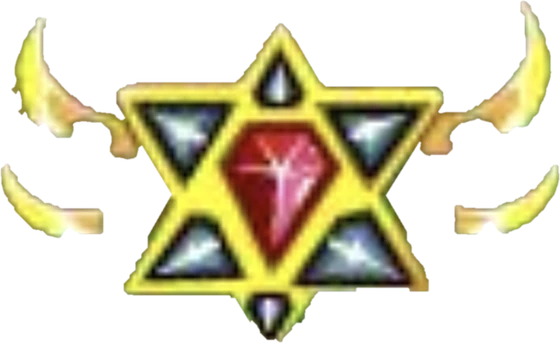
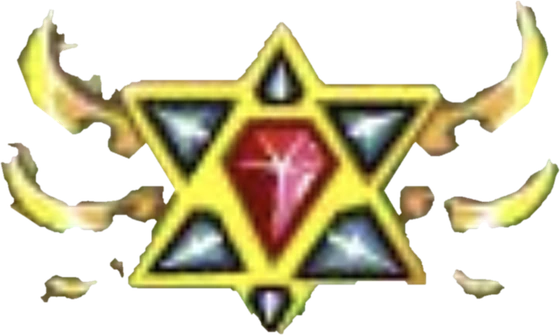
精灵悄悄话补齐所有精灵；冠军奖杯重新抠图（6 片刀刃）
Claude-Session: https://claude.ai/code/session_01JDiALkpbsdjX6YMkLW4X8m

diff --git a/js/data/chatter.js b/js/data/chatter.js
@@ -10,44 +10,70 @@ var CHATTER_GEN = {
   home: ['这里好安静。', '今天也辛苦啦。', '茶好香。', '什么时候出去冒险？', '我在巡逻，别打扰我。', '（打了个哈欠）', '训练师，摸摸我嘛。', '这间休息舱比野外舒服多了。']
 };
 var CHATTER_MIA = ['……紫……紫色的……', '呜噜噜……', '头好晕……', '（翻译器：信号太杂，翻译不出来）', '……好吵……别过来……', '咕……嘶……', '（翻译器：……检测到无法识别的语言）', '……想……回家……'];
+// 2026-11-02：给所有精灵补齐专属台词（原来合理的保留），按各自的设定写
 var CHATTER = {
-  leaf: { all: ['想晒太阳。', '省实验的生态园，不知道还好不好。', '我以前只是一颗普通的种子来着。', '光合作用中，请勿打扰。'], spa: ['热水浇一浇，好像要发芽了。', '泡久了会不会长出根来……'], home: ['窗边那盆花是我的亲戚吗？'],
-    stage: { 0: ['我会长大的！', '咕咚——（滚了一圈）'], 2: ['果子熟了，才有力气保护大家。'] } },
-  squid: { all: ['这一圈都是我的领地。', '让我先画个圈。', '海里的事，我说了算。', '墨汁？我随身带着。'], wild: ['你踩到我画的圈了！'], spa: ['淡水……也还行吧。', '泡温泉也要先画个圈占位置。'], home: ['这个角落我已经用墨汁标记过了。'],
-    stage: { 0: ['我以前住在东海，后来被捞到了省实验……', '生物老师们对我做了什么来着？'], 1: ['乌贼们都听我的！'] } },
-  moon: { all: ['我没睡着，我睁着眼呢。', '今天是上弦月还是下弦月？', '月亮缺了也会再圆的。'], spa: ['水面上有月亮的倒影……是我吗？'], home: ['（眯着眼）……我真的醒着。'] },
-  wind: { all: ['叶片上的印记，是祖先留给我们的。', '风往哪边吹，我们就往哪边跑。', '草甸才是最好的地方。'], wild: ['你是天上掉下来的那些人类吗？', '最近林子里怪怪的……'], spa: ['原来不只是草甸，热水也很舒服。'], home: ['想念芙罗拉的风了。'],
-    stage: { 0: ['跑起来！跑起来！'], 2: ['六条尾巴梳起来很费劲的。'] } },
-  mush: { all: ['看得清清楚楚。'], wild: ['离我远一点，我会喷孢子的。'], home: ['找个阴凉角落待着最好。'],
-    stage: { 0: ['我的眼镜片是丛林里的硅蘑菇做的。', '（推了推眼镜）'], 1: ['（推了推眼镜）', '两条菌丝扎进土里，吃饱饱。', '这块土好有营养。'], 2: ['眼镜？早就不需要了，菌丝能织成透镜。', '别看藤鞭短，要伸多长有多长。', '（藤鞭悄悄伸长了一截）'] },
+  leaf: { all: ['想晒太阳。', '省实验的生态园，不知道还好不好。', '我以前只是一颗普通的种子来着。', '光合作用中，请勿打扰。', '叶子摊开，太阳就是我的。', '阴天好没精神……'], spa: ['热水浇一浇，好像要发芽了。', '泡久了会不会长出根来？', '温泉里也有阳光的味道。'], home: ['把我放窗边好不好？', '有空帮我浇点水嘛。'], wild: ['你身上有省实验的味道！'],
+    stage: { 0: ['我会长大的！', '咕咚——（滚了一圈）', '4 号生态园的土最好了。'], 1: ['叶子又长出来一片！', '晴天的时候，我会把叶子平铺在头顶。'], 2: ['果子熟了，才有力气保护大家。', '晒满一次，能撑九十天哦。', '结了果却没开过花……我也不知道为什么。'] } },
+  squid: { all: ['这一圈都是我的领地。', '让我先画个圈。', '海里的事，我说了算。', '墨汁？我随身带着。', '黄海的水比东海凉一点。'], wild: ['你踩到我画的圈了！', '出了这个圈，就不归我管了。'], spa: ['淡水……也还行吧。', '泡温泉也要先画个圈占位置。', '谁把墨汁滴进池子了？……哦，是我。'], home: ['这间屋子，我画个圈就算我的了。', '训练师，你的位置也在圈里哦。'],
+    stage: { 0: ['我以前住在东海，后来被捞到了省实验……', '生物老师们对我做了什么来着？', '我才不是鱿鱼丝！'], 1: ['乌贼们都听我的！', '大王出巡，闲人回避。'], 2: ['墨圈越画越大，领地也越来越大。', '领主的圈，谁也不许踩。'] } },
+  moon: { all: ['我没睡着，我睁着眼呢。', '今天是上弦月还是下弦月？', '月亮缺了也会再圆的。', '阴晴圆缺，都是我。', '夜里的我，比白天更亮。'], wild: ['你挡住我的月光了。'], spa: ['水面上有月亮的倒影……是我吗？', '泡在水里，像月亮掉进了湖。'], home: ['（眯着眼）……我真的醒着。', '把灯关掉，我来当灯。'],
+    stage: { 0: ['（睁着眼睛看着你）', '大家都以为我在睡觉……'], 1: ['暗面也是月亮的一部分。', '光和影，我都要。', '月升叠满的时候，可别眨眼。'] } },
+  wind: { all: ['叶片上的印记，是祖先留给我们的。', '风往哪边吹，我们就往哪边跑。', '草甸才是最好的地方。', '听，风在说话。'], wild: ['你是天上掉下来的那些人类吗？', '最近林子里怪怪的……', '紫色的雾又飘过来了吗？'], spa: ['原来热水是这种感觉。', '叶子泡软了，飞不起来了……'], home: ['屋里没有风，有点闷。', '开个窗吧，让风进来。'],
+    stage: { 0: ['跑起来！跑起来！', '卡罗卡罗！'], 1: ['铭文在发光……先祖在看着我。', '风和草，都听我的。'], 2: ['六条尾巴梳起来很费劲的。', '一挥尾巴，满天叶片都会飞起来。'] } },
+  mush: { all: ['看得清清楚楚。', '丛林里的硅蘑菇，最适合做镜片。', '孢子不是故意撒的，打个喷嚏而已。'], wild: ['离我远一点，我会喷孢子的。', '这片腐叶土是我的。'], home: ['找个阴凉角落待着最好。', '屋里太亮了，能拉上窗帘吗？'],
+    stage: { 0: ['我的眼镜片是丛林里的硅蘑菇做的。', '（推了推眼镜）'], 1: ['（推了推眼镜）', '两条菌丝扎进土里，吃饱饱。', '这块土好有营养。'], 2: ['眼镜？早就不需要了，菌丝能织成透镜。', '藤鞭？其实是菌丝装的。', '菌丝一伸，够得着很远的地方。'] },
     spa_0: ['眼镜起雾了……什么都看不见了。'], spa_1: ['眼镜起雾了……什么都看不见了。', '菌丝泡软了。'], spa_2: ['菌丝织的透镜不会起雾，嘿嘿。'] },
-  kaleo: { all: ['我一个人待着就好。', '丛林深处才是我们的家。', '……（警惕地看着四周）'], wild: ['别把我和那些被训练过的家伙混为一谈。'], spa: ['……热水，还不坏。'], home: ['这里没有人会拿瘴气喂我吧？'] },
-  leafcat: { all: ['好困……让我睡一会儿……', '寿司？哪里有寿司？', '我很强哦。'], spa: ['泡完温泉睡一觉，完美。', '这水好干净，不用我净化了。'], home: ['（蜷成一团）呼噜……'],
-    stage: { 1: ['魔杖借你看看，不许摸。', '要是有瘴气，交给我吧。'] } },
-  gorgon: { all: ['我是一团水，也是精灵。', '流到哪里算哪里。'], spa: ['热水和我，分不清谁是谁了。', '别把我当洗澡水舀走啊！'], home: ['给我换个大点的水盆吧。'],
-    stage: { 0: ['我真的是精灵，不是一滩水！'], 1: ['我其实是一条蛇哦。'], 2: ['涓流灌溉生命……也能卷走生命。'] } },
-  pede: { all: ['我游得最快！', '追得上我吗？', '一刻也停不下来。'], spa: ['温泉里不让游泳吗？'], home: ['想冲一圈。'] },
-  siren: { all: ['啦——啦——', '要听我唱歌吗？', '歌声能传得很远很远。'], wild: ['迷路的人，听着歌声回来吧。'], spa: ['这里的回音真好听，啦～'], home: ['今天想唱一首新歌。'] },
-  tagore: { all: ['咱东北那旮沓，冬天老冷了。', '来，比划比划！', '指甲是弧形的，不挠人。'], spa: ['这温泉跟东北澡堂子比还差点意思。', '搓澡巾有没有？'], home: ['一会儿去体能馆练练。'],
-    stage: { 1: ['沈阳大街上，没人打得过我。'], 2: ['武学之道，在于屹立不倒。'] } },
-  hauris: { all: ['宇宙好大啊……', '我在漂，我一直在漂。', '好像……悟到了点什么。'], spa: ['在水里漂和在宇宙里漂，感觉差不多。'] },
-  faraday: { all: ['滋滋——', '不要碰我，会触电的。', '电量满格！'], spa: ['我泡进水里真的没问题吗？？'], home: ['帮你充个电？'] },
-  leigong: { all: ['有锰吗？想吃锰。', '我的内核是纯锰的。'], spa: ['热水泡久了会不会氧化……'], home: ['这个茶杯是锰做的吗？'],
-    stage: { 1: ['我们三个是一体的。'], 2: ['我才是本体，那些小锰怪都是分身。'] } },
-  frost: { all: ['好热……有冰吗？', '呼——（吹出一口冷气）'], spa: ['温泉？我会化掉的吧！', '……其实还挺舒服的，别告诉别人。'], home: ['把空调开低一点。'] },
-  wild: { all: ['……', '很久很久以前……', '我记得这颗星球最早的样子。'] },
-  hephaestus: { all: ['好暖和，想打个盹。', '再热一点就好了。'], spa: ['这才是温泉该有的温度！再热点！'], home: ['炉子在哪？'] },
-  turkey: { all: ['米饭！有米饭吗？', '我背的这筐饭，谁也不许碰。', '咕咕——饭——'], spa: ['泡完温泉，来一碗热乎乎的饭吧。'], home: ['今天的饭什么时候开？'] },
-  firemouse: { all: ['吱吱！好烫！好开心！', '我是从炙热核心跑出来的。'], spa: ['这水不够烫，吱。'],
-    stage: { 0: ['这块金属碎片亮晶晶的，归我了！', '（把碎铁片塞进颊囊）'], 1: ['背上的罐子装满了，别惹我。', '（罐子里的火光一闪一闪）'] } },
-  shroom: { all: ['武汉的夏天，才叫热。'], spa: ['跟武汉的三伏天比，这算凉快的。'], home: ['想吃热干面了。'],
-    stage: { 0: ['我头上不是火，是伞盖的花纹！'], 1: ['别看我，我不好吃！……好吧，其实挺好吃的。', '又有人拿着锅过来了……', '我头上不是火，是伞盖的花纹！'], 2: ['烧尽了，再从火里站起来。', '这身火焰，是真的火了。', '（衣摆上的火苗轻轻晃动）'] } },
-  bone: { all: ['……骨头咔咔响。', '别怕，我只是长得凶。'], spa: ['泡温泉对骨头好。'] },
-  aegis: { all: ['我会挡在你前面。', '明明教官让我好好保护你。'], spa: ['盾牌泡水会生锈吗……'], home: ['站岗中。'] },
-  phantom: { all: ['你看到的，也许只是幻象。', '落叶里藏着秘密。'], spa: ['热气里，我能变出好多影子。'] },
-  dragon: { all: ['吼——', '总有一天，我会飞得比谁都高。'], spa: ['龙也是需要休息的。'] },
-  pluto: { all: ['……生与死，只隔一层。', '你还活着，很好。'], spa: ['死神也要泡温泉吗？……要的。'] },
-  inkarm: { all: ['……哼。', '我以前驮着一个戴眼镜的家伙。'], spa: ['这水太清了，不习惯。'], home: ['墨汁？我的是黑的。'] },
-  barren: { all: ['……沙沙……沙沙……'] },
+  kaleo: { all: ['我一个人待着就好。', '丛林深处才是我们的家。', '……（警惕地看着四周）', '足刃要常磨，才不会钝。'], wild: ['别把我和那些被训练过的家伙混为一谈。', '戴眼镜的人类？离我远点。'], spa: ['……热水，还不坏。', '别靠太近，我习惯一个人泡。'], home: ['这里没有人追我，挺好。', '我在墙角磨一会儿足刃。'],
+    stage: { 0: ['（缩进树叶里）……看不见我。', '我本体很弱的，别戳我。'], 1: ['这块石头磨足刃正好。', '多了几条腿，跑得更快了。'], 2: ['等猎物累了，再出手。', '我守着这片丛林，谁也别想乱来。'] } },
+  leafcat: { all: ['好困……让我睡一会儿……', '寿司？哪里有寿司？', '我很强哦。', '叶之村落的大家，还好吗……'], wild: ['我是出来旅行的，别打扰我。'], spa: ['泡完温泉睡一觉，完美。', '这水好干净，不用我净化了。'], home: ['（蜷成一团）呼噜……', '这里比村子里暖和。'],
+    stage: { 0: ['（打了个大大的哈欠）', '寿司猫咪……说的就是我。'], 1: ['魔杖借你看看，不许摸。', '要是有瘴气，交给我吧。', '光会被我的飞叶折弯哦。'] } },
+  gorgon: { all: ['我是一团水，也是精灵。', '流到哪里算哪里。', '水能载舟，也能……算了不说了。'], wild: ['坎伯兰星的水，都是我的家。'], spa: ['热水和我，分不清谁是谁了。', '别把我当洗澡水舀走啊！'], home: ['给我换个大点的水盆吧。', '屋里太干了，我在缩水……'],
+    stage: { 0: ['我真的是精灵，不是一滩水！', '（晃了晃）……别拿杯子装我。'], 1: ['我其实是一条蛇哦。', '游起来才看得出我的形状。'], 2: ['涓流灌溉生命……也能卷走生命。', '水即万物。'] } },
+  pede: { all: ['我游得最快！', '追得上我吗？', '一刻也停不下来。', '尖角磨好了，随时出击。'], wild: ['有不认识的东西闯进海里了……是你吗？', '盯紧了，别乱动。'], spa: ['温泉里不让游泳吗？', '这池子转一圈只要半秒。'], home: ['想冲一圈。', '屋里太小了，转不开身。'],
+    stage: { 0: ['鳍摆得飞快，嗖——', '我是坎布尔星土生土长的！'], 1: ['角磨尖了，谁来都不怕。'], 2: ['我一直盯着海面，进犯者一个也别想溜。'] } },
+  siren: { all: ['啦——啦——', '要听我唱歌吗？', '歌声能传得很远很远。', '冥岛的夜晚，最适合唱歌。'], wild: ['迷路的人，听着歌声回来吧。', '你们的穿梭机……是被我的歌声吵到了吗？'], spa: ['这里的回音真好听，啦～', '热气让嗓子好润。'], home: ['今天想唱一首新歌。', '你想点歌吗？'],
+    stage: { 0: ['我小得像一粒米，所以叫塞米。', '别踩到我！'], 1: ['停下来，听我唱完这一段。'], 2: ['生气的时候，我的歌会掀起海浪。', '可别在我唱歌时打岔。'] } },
+  tagore: { all: ['咱东北那旮沓，冬天老冷了。', '来，比划比划！', '指甲是弧形的，不挠人。', '大锅炖是真香啊。'], wild: ['你瞅啥？'], spa: ['这温泉跟东北澡堂子比还差点意思。', '搓澡巾有没有？'], home: ['一会儿去体能馆练练。', '有酸菜没？想整一口。'],
+    stage: { 0: ['我小胖虎可不胖！', '（伸了个懒腰）嗷呜～'], 1: ['沈阳大街上，没人打得过我。', '打群架？算我一个！'], 2: ['武学之道，在于屹立不倒。', '世人如潮，我如礁石。'] } },
+  hauris: { all: ['宇宙好大啊……', '我在漂，我一直在漂。', '好像……悟到了点什么。', '星盘转了一圈，又回到原点。'], wild: ['我从哪里来？我也不知道。'], spa: ['在水里漂和在宇宙里漂，感觉差不多。'], home: ['这里停一会儿，也不错。'],
+    stage: { 0: ['（忽隐忽现）……你看得见我吗？'], 1: ['身体里的纺锤在转，能量就是从那来的。'], 2: ['漂了这么久，终于懂了一点点。', '万物皆在流转。'] } },
+  faraday: { all: ['滋滋——', '不要碰我，会触电的。', '电量满格！', '我和圣灵系没有关系！'], wild: ['靠近雷暴区就要小心哦。'], spa: ['我泡进水里真的没问题吗？？', '（池水开始冒小火花）……我先出去了。'], home: ['帮你充个电？', '插座在哪？我来当电源。'],
+    stage: { 0: ['我是电气凝成的，摸起来麻麻的。'], 1: ['别把我当电池用啦！', '个子小，电压可不小。'], 2: ['平时我很温柔的……别惹我生气就好。', '雷光在身边打转。'] } },
+  leigong: { all: ['有锰吗？想吃锰。', '我的内核是纯锰的。', '外壳氧化了，换一层就好。'], wild: ['陨石带的锰，都是我们的！'], spa: ['热水泡久了会不会氧化……'], home: ['这个茶杯是锰做的吗？', '屋里的金属……都可以吃吗？'],
+    stage: { 0: ['（啃了一口陨石）咔嚓。'], 1: ['我们三个是一体的。', '吃进去的锰，大家一起提炼。'], 2: ['我才是本体，那些小锰怪都是分身。', '十几个我，合成一个我。'] } },
+  frost: { all: ['好热……有冰吗？', '呼——（吹出一口冷气）', '白之星的雪，下起来没完没了。'], wild: ['冰原是我的地盘，踩轻点。'], spa: ['温泉？我会化掉的吧！', '……其实还挺舒服的，别告诉别人。'], home: ['把空调开低一点。', '冰箱里那块冰是我的。'],
+    stage: { 0: ['我在铸一块最硬的冰。'], 2: ['冻住的东西，强化也会碎掉。', '戴上冰冠，冬天就来了。'] } },
+  wild: { all: ['……', '很久很久以前……', '我记得这颗星球最早的样子。', '冰层下面，还有很多秘密。'], wild: ['你是从冰面上来的吗？'], spa: ['冰湖里待久了，热水好陌生。'], home: ['这里……比冰层里亮多了。'],
+    stage: { 0: ['（在冰缝里钻来钻去）'], 1: ['冰湖里，没人游得比我快。'], 2: ['尾巴上的刀刃，在发热……', '古老的力量正在醒来。'] } },
+  hephaestus: { all: ['好暖和，想打个盹。', '再热一点就好了。', '庞贝星的岩浆，泡起来最舒服。'], wild: ['别碰我的壳，烫手。'], spa: ['这才是温泉该有的温度！再热点！', '这水温……给我加点岩浆。'], home: ['炉子在哪？', '有没有坏掉的盔甲？我帮你熔了重打。'],
+    stage: { 0: ['这身铠甲是我的蛋壳做的！'], 1: ['在熔岩里游泳，好自在。'], 2: ['靠近我，你的护具会化掉的。', '锻造之神的名字，可不是白叫的。'] } },
+  turkey: { all: ['米饭！有米饭吗？', '我背的这筐饭，谁也不许碰。', '咕咕——饭——', '吃饱了才有力气冲锋。'], wild: ['你身上有米饭的香味！'], spa: ['泡完温泉，来一碗热乎乎的饭吧。'], home: ['今天的饭什么时候开？', '食堂的米饭，比野外的好吃。'],
+    stage: { 0: ['（护住背上的饭筐）', '这一筐够我吃一天。'], 1: ['（趴在地上扒饭）', '一粒米也不能浪费。'], 2: ['啊……火鸡冲锋！', '吃饱了！冲——'] } },
+  firemouse: { all: ['吱吱！好烫！好开心！', '我是从炙热核心跑出来的。', '亮晶晶的东西，都归我！'], wild: ['你口袋里有铁片吗？'], spa: ['这水不够烫，吱。'], home: ['你的抽屉里有没有螺丝？借我玩玩。'],
+    stage: { 0: ['这块金属碎片亮晶晶的，归我了！', '（把碎铁片塞进颊囊）'], 1: ['背上的罐子装满了，别惹我。', '（罐子里的火光一闪一闪）', '罐子是我自己拼的哦。'] } },
+  shroom: { all: ['武汉的夏天，才叫热。', '热干面要多放芝麻酱。'], wild: ['我才不是火，是伞盖上的花纹！'], spa: ['跟武汉的三伏天比，这算凉快的。'], home: ['想吃热干面了。', '离厨房远一点比较安全……'],
+    stage: { 0: ['我头上不是火，是伞盖的花纹！'], 1: ['别看我，我不好吃！……好吧，其实挺好吃的。', '又有人拿着锅过来了……'], 2: ['余烬里，我又站起来了。', '火焰的翅膀，扇一扇就好热。'] } },
+  bone: { all: ['……骨头咔咔响。', '别怕，我只是长得凶。', '以骨为刃，以骨为躯。'], wild: ['这片地方，曾经有很多骨头……'], spa: ['泡温泉对骨头好。'], home: ['Bttp 说我排第三个最合适。', '我在磨骨刃，别靠太近。'],
+    stage: { 0: ['（骨头碰得叮当响）'], 1: ['邪骨……这名字是 Bttp 起的吗？'], 2: ['骨头碎了，还能再接上。'] } },
+  aegis: { all: ['我会挡在你前面。', '盾在，人在。', '再硬的攻击，我也接得住。'], wild: ['站住，这里不能通过。'], spa: ['盾牌泡水会生锈吗……'], home: ['站岗中。', 'Dr.黄 说我的防御没人破得了。'],
+    stage: { 0: ['我是一匹马，也是一面盾。'], 1: ['盾牌越来越重了，但我扛得住。'], 2: ['至高之盾，无坚不摧……啊不对，是无坚可摧。'] } },
+  phantom: { all: ['你看到的，也许只是幻象。', '落叶里藏着秘密。', '要不要回 4 班看看？……开玩笑的。'], wild: ['你确定我站在这里吗？'], spa: ['热气里，我能变出好多影子。'], home: ['闭上眼睛，你会听到上课铃。'],
+    stage: { 0: ['我以前也是一颗叶粒种子……', '那个实验，我不记得了。'], 1: ['幻境里，大家都还在教室里。', '魔化的力量……其实也不坏。'] } },
+  dragon: { all: ['吼——', '总有一天，我会飞得比谁都高。', '龙之庭的封印……还没完全解开。'], wild: ['你身上有勇者的气味。'], spa: ['龙也是需要休息的。'], home: ['这屋子装不下我的翅膀。'],
+    stage: { 0: ['（小声地）吼……'], 1: ['牙齿在长，力量也在长。'], 2: ['我曾吞下整个世界。', '被封印的，总有一天会醒来。'] } },
+  pluto: { all: ['……生与死，只隔一层。', '你还活着，很好。', '镰刀不是用来吓人的。'], wild: ['先驱之塔的顶上，有我的同类。'], spa: ['死神也要泡温泉吗？……要的。'], home: ['Bttp 借我的镰刀捆过人。……别问。'],
+    stage: { 0: ['（在你身后飘了一圈）'], 2: ['冥王的名字，不是随便叫的。', '收下一个灵魂，下一场会更顺利。'] } },
+  inkarm: { all: ['……哼。', '我以前驮着一个戴眼镜的家伙。', '黑雾里，潮汐听我的。'], wild: ['常春藤的人……还会回来吗？'], spa: ['这水太清了，不习惯。'], home: ['墨汁？我的是黑的。', '这里没人逼我干坏事了。'],
+    stage: { 0: ['我本来也是一只普通的水臂乌贼……'], 1: ['辰爷骑着我跑路的时候，我真想把他甩下去。'], 2: ['黑雾越浓，我越强。'] } },
+  barren: { all: ['……沙沙……沙沙……', '草……要除掉……', '地底下，好安静。'], wild: ['……离开这片土地。'], spa: ['……水会让草长出来……'], home: ['……这里没有杂草，很好。'],
+    stage: { 0: ['（塑料片在风里哗啦哗啦响）', '……我真的是一团枯叶。'], 1: ['几万年前，有人让我守着这片地。', '……莠去津的味道。'] } },
+  odo: { all: ['铁……检测到铁元素。', '（嗡——机体自检中）', '巡航模式启动。'], wild: ['目标……未确认。继续搜索。'], spa: ['防水等级：深海级。温泉，没有问题。', '（冒出一串气泡）'], home: ['你的家里，有很多铁。', '待机中……别拍我的外壳。'],
+    stage: { 0: ['吃一点铁，长大一点。', '（咔哒咔哒地啃螺丝）'], 1: ['歼灭形态，还是护阵形态？由你决定。', '我曾经是毁灭者……现在，我是你的伙伴。', '浪潮把我冲到了这里。'] } },
+  leiming: { all: ['光照到金属上，电子就会跳出来哦。', '我是华中科技大学的光电专业毕业的……灯泡。', '明明教官也是华科的！'], wild: ['亮——吗——？'], spa: ['灯泡泡水……会短路吗？好像不会。'], home: ['屋里暗了？我来。', '我可以当台灯，护眼的那种。'],
+    stage: { 0: ['（叮——灯亮了）', '我是一颗很聪明的灯泡。'], 1: ['光电效应，就是我的力量。', '电与光，我都能驾驭。'] } },
+  tiago: { all: ['速战速决。', '没必要的架，我不打。', '你的下一招，我已经看穿了。'], wild: ['别过来，我的甲鞘很尖。'], spa: ['泡完温泉，出招会更快。'], home: ['（在墙角练习收刀）'],
+    stage: { 0: ['头顶的甲鞘很尖锐，别从正面来哦。', '（用角戳了戳你）'], 1: ['招架，然后反击。', '一刀就够了。'] } },
+  leibniz: { all: ['快！再快一点！', '速度差，就是我的伤害。', '你知道微积分吗？我知道。'], wild: ['小心，陨石带里到处都是锰怪。'], spa: ['在水里飞不起来，好憋屈。'], home: ['屋里太窄了，转弯会撞墙。', '让我出去飞两圈嘛。'],
+    stage: { 0: ['（咚）……又撞到锰怪了。', '飞太快，刹不住车。'], 1: ['我学会控制速度了！'], 2: ['风雷滚滚，移形换位。', '你看清我了吗？没有吧。'] } },
   dummy: { all: ['……', '（木桩一动不动）', '（木桩好像晃了一下）'] }
 };
